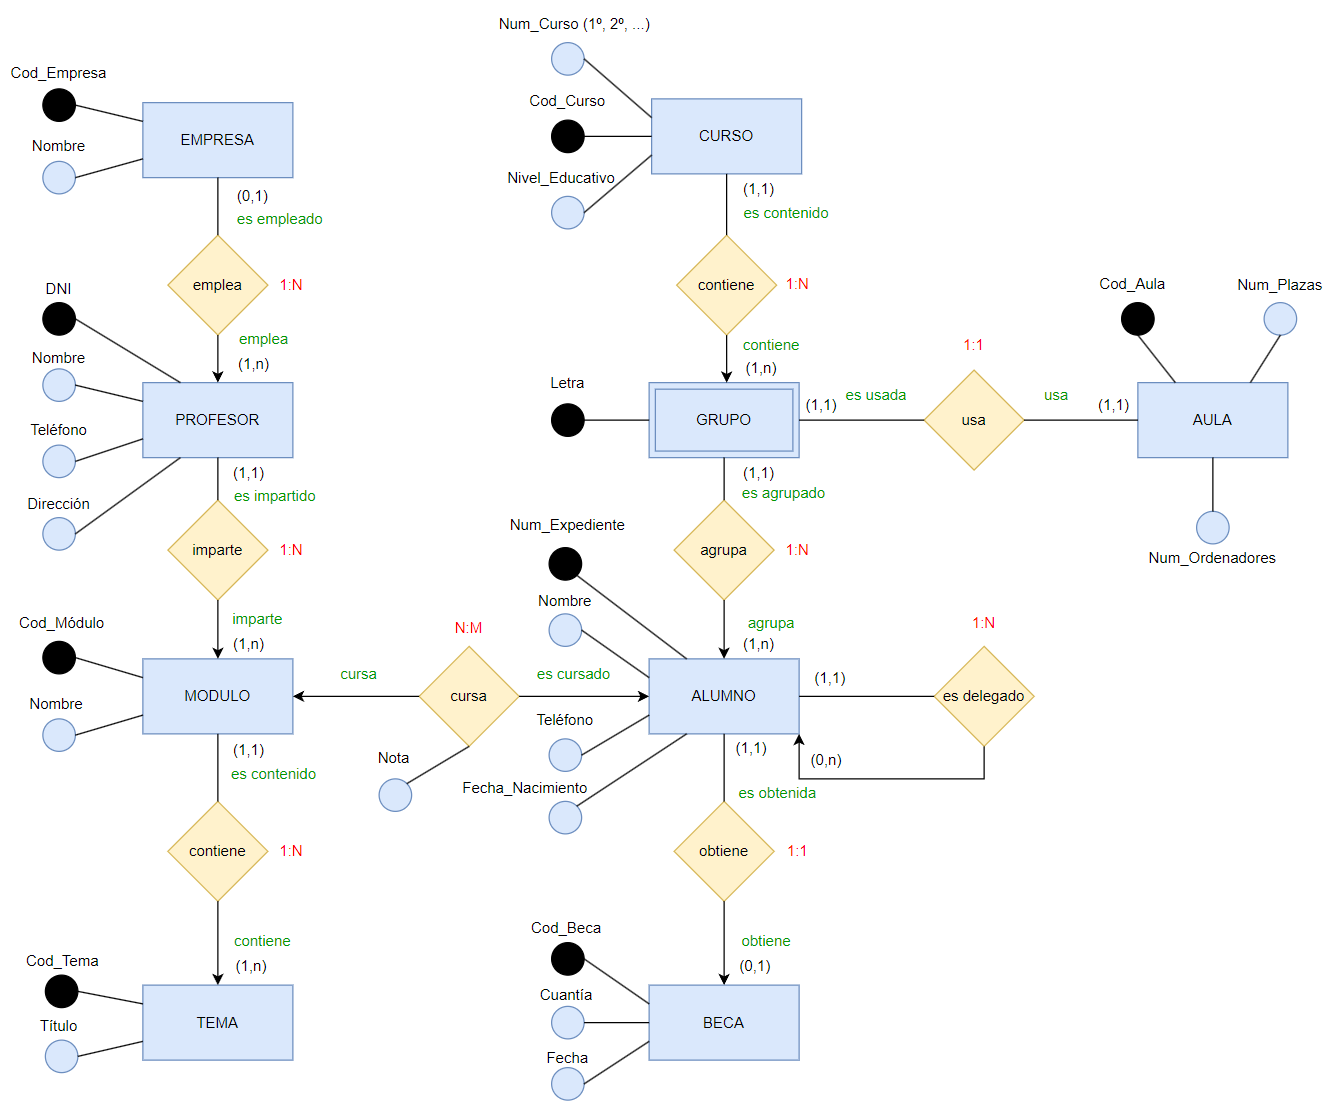
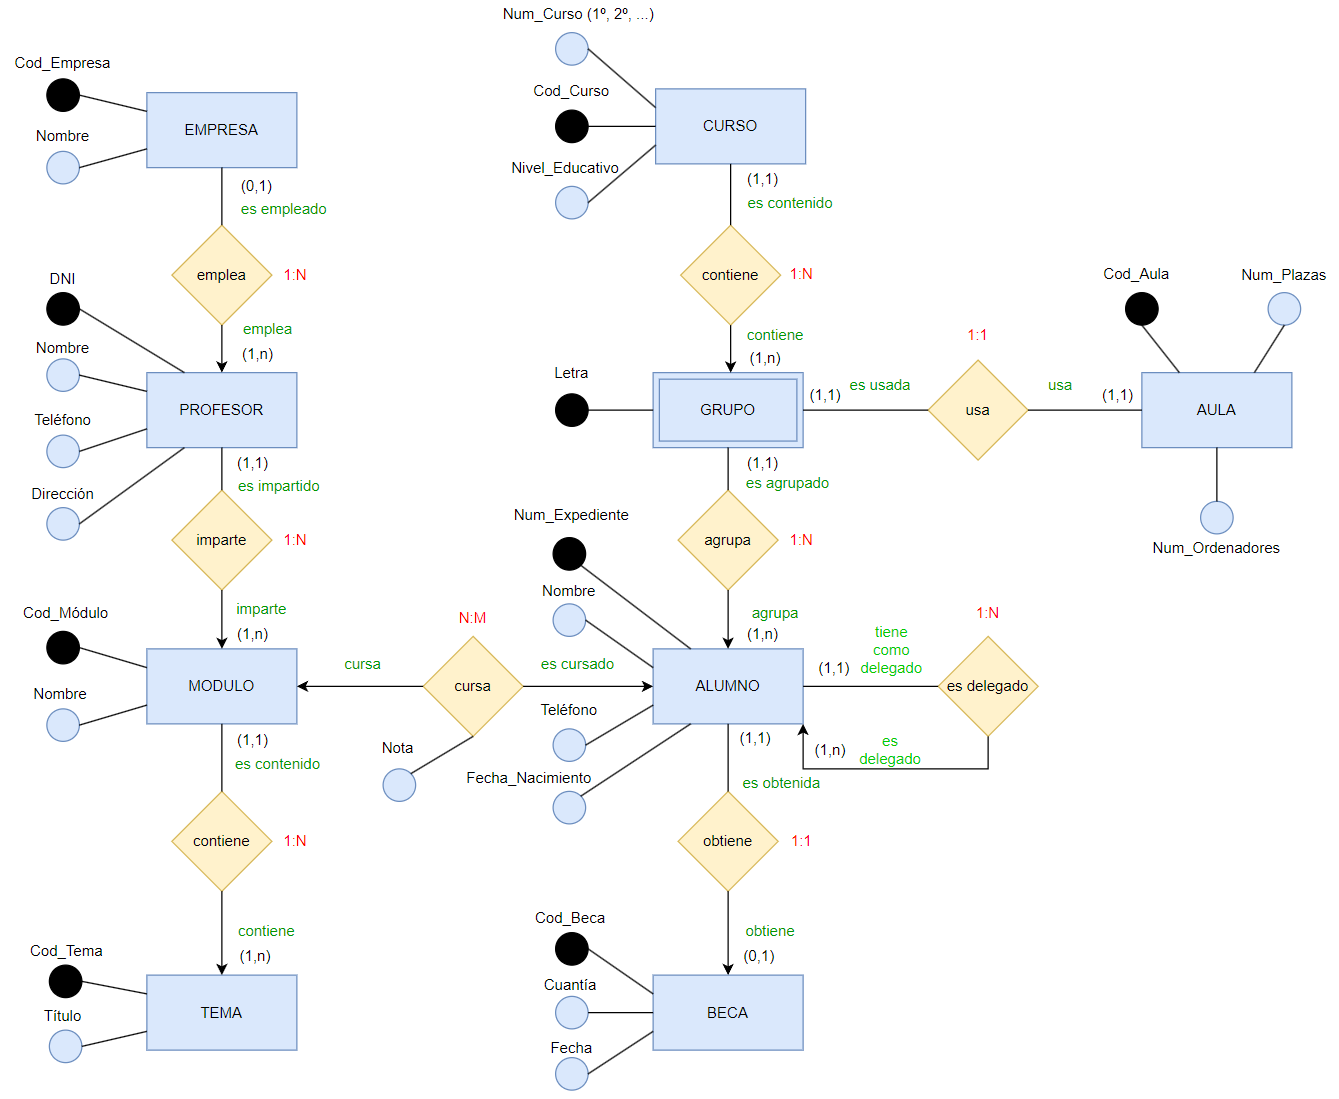
Updated

diff --git a/apuntes/ut02/modelo-relacional.md b/apuntes/ut02/modelo-relacional.md
@@ -127,25 +127,31 @@ A continuación se muestra un resumen de los casos disponibles en relaciones N:M
 
 En este tipo de relaciones se trata como una relación normal, la diferencia está es que es posible que al pasarlo al Modelo Relacional se repita dos veces un mismo campo para relacionarlo con sí mismo.
 
+Caso 1: Se tratará como una relación 1:N. Se generará una única tabla con todos los atributos que pueda tener, incluyendo los posibles campos de relación si los hubiere, haciendo repetición de la clave primaria como clave foránea para relacionarla consigo mismo.
+
 ![][10]
 
-Se tratará como una relación 1:N. Se generará una única tabla con todos los atributos que pueda tener, incluyendo los posibles campos de relación si los hubiere, haciendo repetición de la clave primaria como clave foránea para relacionarla consigo mismo.
-Entidad1: Identificador1, Atributo1, Identificador1, Atributo2.
+> Nota: no puede haber dos campos con el mismos nombre en la misma tabla, por lo que debemos cambiar el nombre de la clave para que haga referencia al papel que desempeña como clave foránea.
 
 ![][11]
 
-Se tratará como una N:M. Se generará dos tablas, una de la propia entidad y sus atributos y otra de la relación en los que incluirá las dos claves externas y los atributos de la relación si hubiere.
-Entidad1: Identificador1, Atributo1.
-Relación: Identificador1, Identificador1, Atributo2.
+Caso2: se tratará como una N:M. Se generará dos tablas, una de la propia entidad y sus atributos y otra de la relación en los que incluirá las dos claves externas y los atributos de la relación si hubiere.
+
+![][12]
+
+![][13]
+
 
 [01]: ../img/ut02/modelo-relacional/entidad01.png "01"
 [02]: ../img/ut02/modelo-relacional/diagrama-entidad-relacion.png "02"
 [03]: ../img/ut02/modelo-relacional/entidad02.png "03"
 [04]: ../img/ut02/modelo-relacional/relacion-muchos-a-muchos.png "04"
-[05]: ../img/ut02/modelo-relacional/relacion-uno-a-uno01.png "05"
-[06]: ../img/ut02/modelo-relacional/relaciones_1_n02.webp "06"
-[07]: ../img/ut02/modelo-relacional/relaciones_1_101.webp "07"
-[08]: ../img/ut02/modelo-relacional/relaciones_1_102.webp "08"
+[05]: ../img/ut02/modelo-relacional/relacion-uno-a-muchos01.png "05"
+[06]: ../img/ut02/modelo-relacional/relacion-uno-a-muchos02.png "06"
+[07]: ../img/ut02/modelo-relacional/relacion-uno-a-uno01.png "07"
+[08]: ../img/ut02/modelo-relacional/relacion_uno-a-uno02.png "08"
 [09]: ../img/ut02/modelo-relacional/relaciones-resumen.webp "09"
-[10]: ../img/ut02/modelo-relacional/relaciones-reflexivas01.webp "10"
-[11]: ../img/ut02/modelo-relacional/relaciones-reflexivas02.webp "11"
+[10]: ../img/ut02/modelo-relacional/relacion-recursiva01.png "10"
+[11]: ../img/ut02/modelo-relacional/relacion-recursiva02.png "11"
+[12]: ../img/ut02/modelo-relacional/relacion-recursiva03.png "12"
+[13]: ../img/ut02/modelo-relacional/relacion-recursiva04.png "13"
